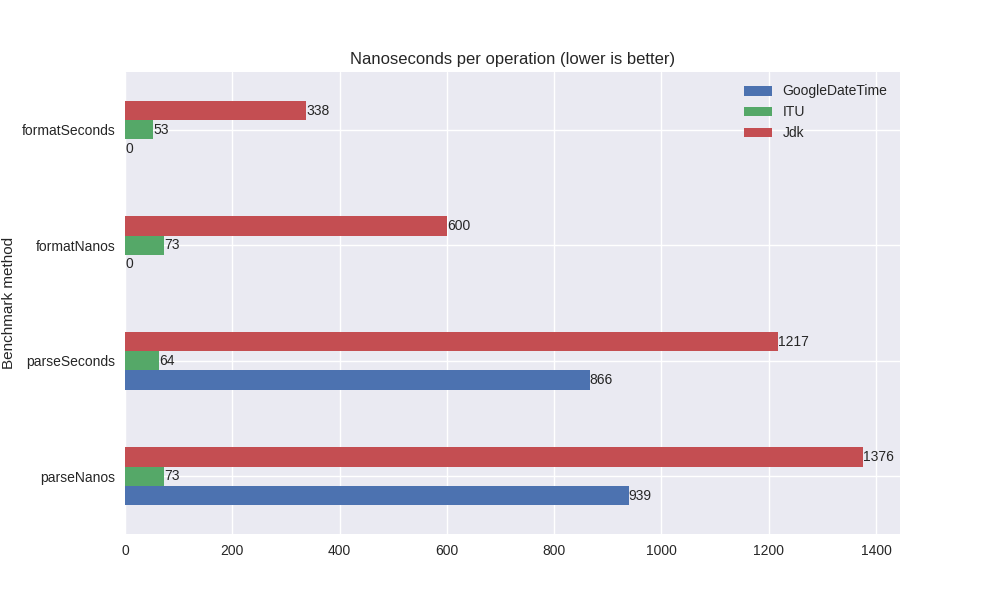
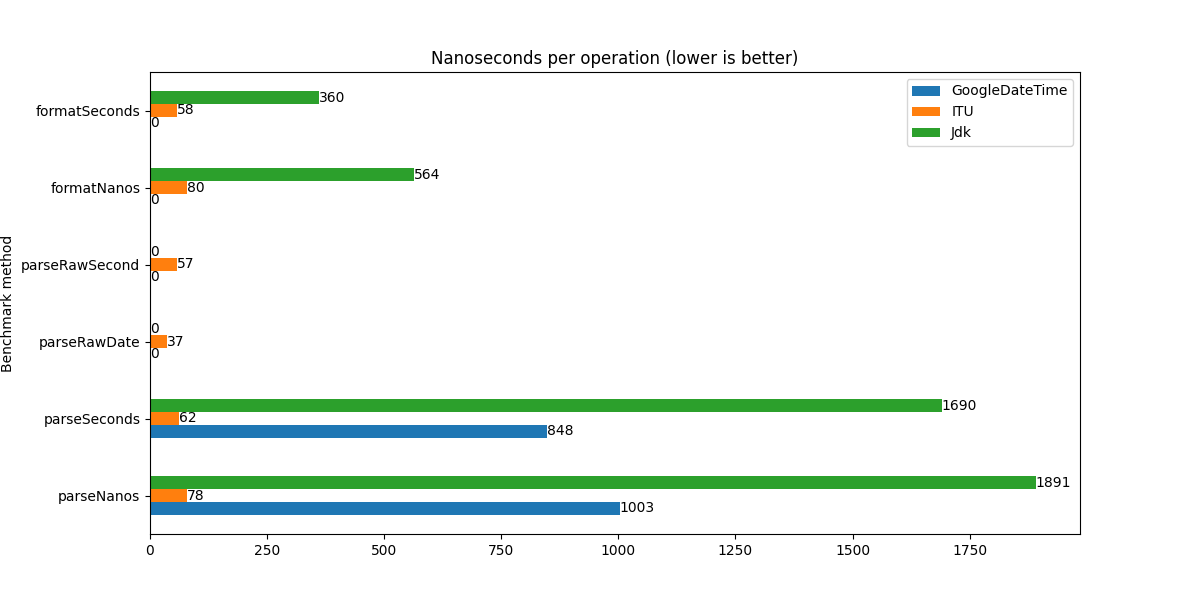
Update docs

diff --git a/plot.py b/plot.py
@@ -15,9 +15,9 @@ class ReportGenerator(object):
         self.settings = {}
         self.parser = argparse.ArgumentParser(description='ReportGenerator')
         self.parser.add_argument('-i', default='target/itu_performance.json', help='The JMH result (JSON) file')
-        self.parser.add_argument('-o', help='Output file path for bar chart image')
+        self.parser.add_argument('-o', default='output.png', help='Output file path for bar chart image')
         self.parser.add_argument('--size', default='10,16', help='Plot size')
-        self.parser.add_argument('--theme', default='seaborn', help='Output theme for bar chart image')
+        self.parser.add_argument('--theme', default='default', help='Output theme for bar chart image')
         self.parser.add_argument('--include', default='parse,parseRaw,format',
                                  help='Prefix for test methods to include')
 
